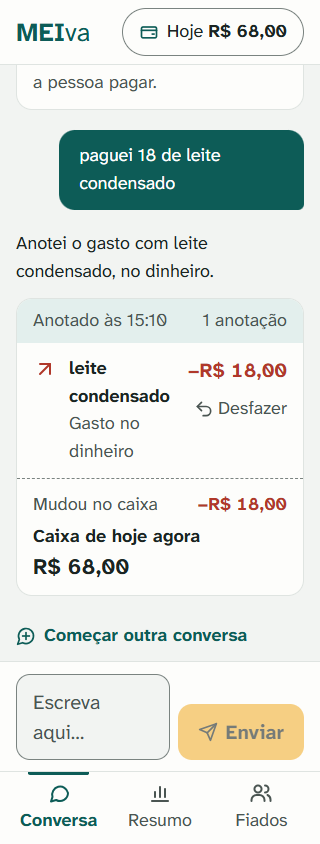
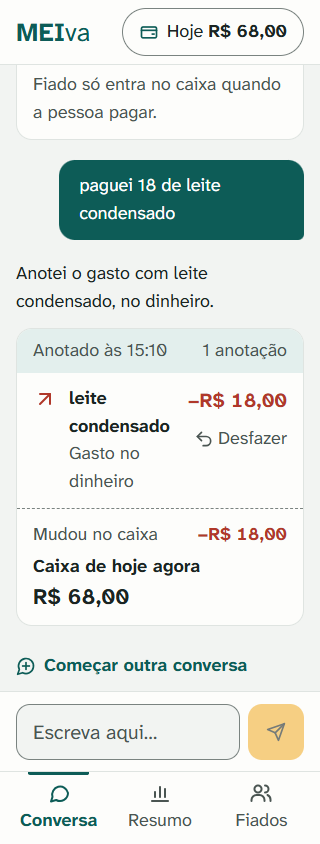
fix(conversa): campo cabe numa linha em telas de 320px
Em 320px o botão "Enviar" com rótulo apertava o campo e o texto de
exemplo quebrava em duas linhas. Abaixo de 360px o rótulo fica só para o
leitor de tela (o ícone de enviar continua), e o botão perde um pouco de
padding. Screenshots de 320px refeitos.

Changed region(s): [[0.0312, 0.0924, 0.9688, 0.9242], [0.75, 0.5853, 0.9062, 0.6469]]

diff --git a/src/components/chat/chat.tsx b/src/components/chat/chat.tsx
@@ -257,10 +257,11 @@ export function Chat() {
             <button
               type="submit"
               disabled={anotando || !texto.trim()}
-              className="flex min-h-14 min-w-14 items-center justify-center gap-2 rounded-controle bg-acento px-5 text-lg font-bold text-sobre-acento transition-[background-color,scale] duration-150 hover:bg-acento-forte active:scale-[0.97] disabled:cursor-not-allowed disabled:opacity-60"
+              className="flex min-h-14 min-w-14 items-center justify-center gap-2 rounded-controle bg-acento px-4 sm:px-5 text-lg font-bold text-sobre-acento transition-[background-color,scale] duration-150 hover:bg-acento-forte active:scale-[0.97] disabled:cursor-not-allowed disabled:opacity-60"
             >
               <IconeEnviar className="size-5" />
-              Enviar
+              {/* Em telas de 320px o rótulo vira só para o leitor de tela, para o campo caber numa linha. */}
+              <span className="max-[359px]:sr-only">Enviar</span>
             </button>
           </div>
           {texto.length >= MOSTRAR_CONTADOR_A_PARTIR_DE && (
